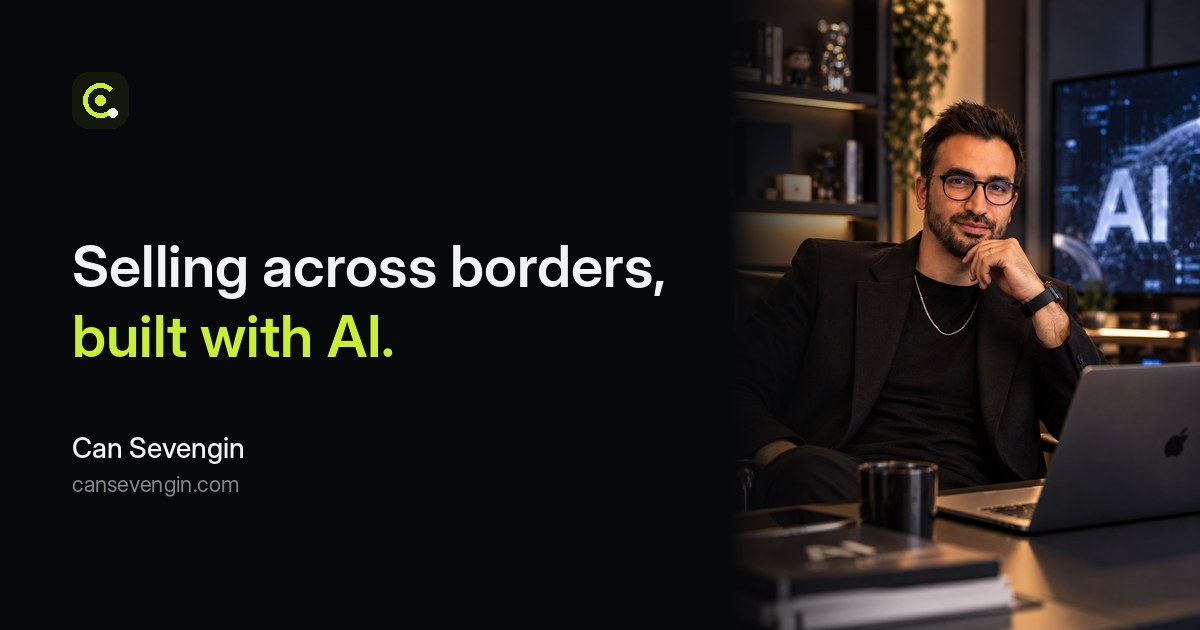
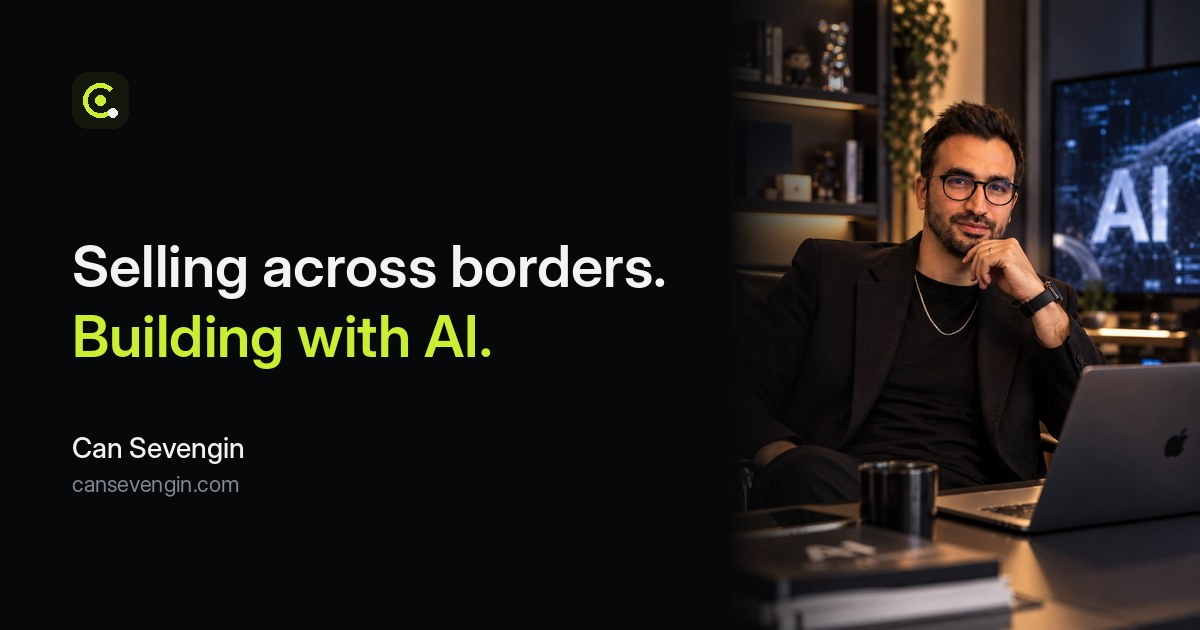
Personal tone: mention Babyjem, add Now section, drop sales-style CTAs and numbers
Claude-Session: https://claude.ai/code/session_015Bz6JnxrbVsJc6pupQeJrm

Changed region(s): [[0.0617, 0.4825, 0.4008, 0.6032]]

diff --git a/src/site.ts b/src/site.ts
@@ -2,9 +2,9 @@ import { getCollection } from 'astro:content';
 
 export const SITE = {
   name: 'Can Sevengin',
-  title: 'Can Sevengin | Selling across borders, built with AI',
+  title: 'Can Sevengin | Selling across borders, building with AI',
   description:
-    'Notes on AI, automation, e-commerce and international trade from Can Sevengin, Istanbul.',
+    'Can Sevengin’s personal site and notes: international sales at Babyjem, AI, automation and life in Istanbul.',
   email: 'hello@cansevengin.com',
   // Add the full profile URL to show a LinkedIn link in the header/footer.
   linkedin: 'https://www.linkedin.com/in/can-sevengin-3884a516a/',
